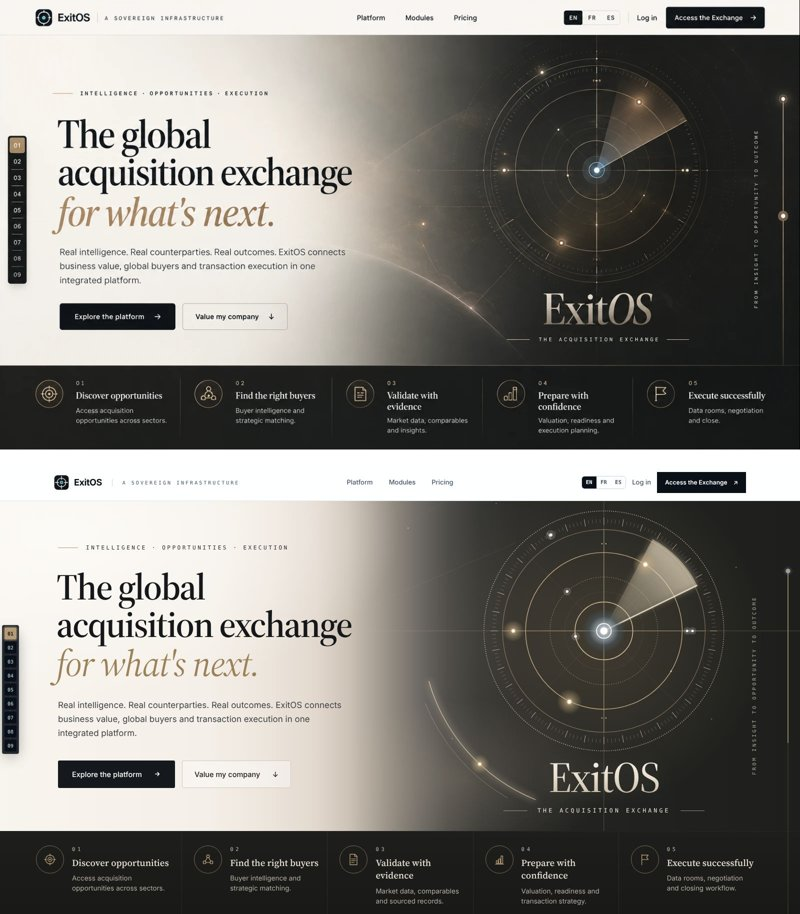
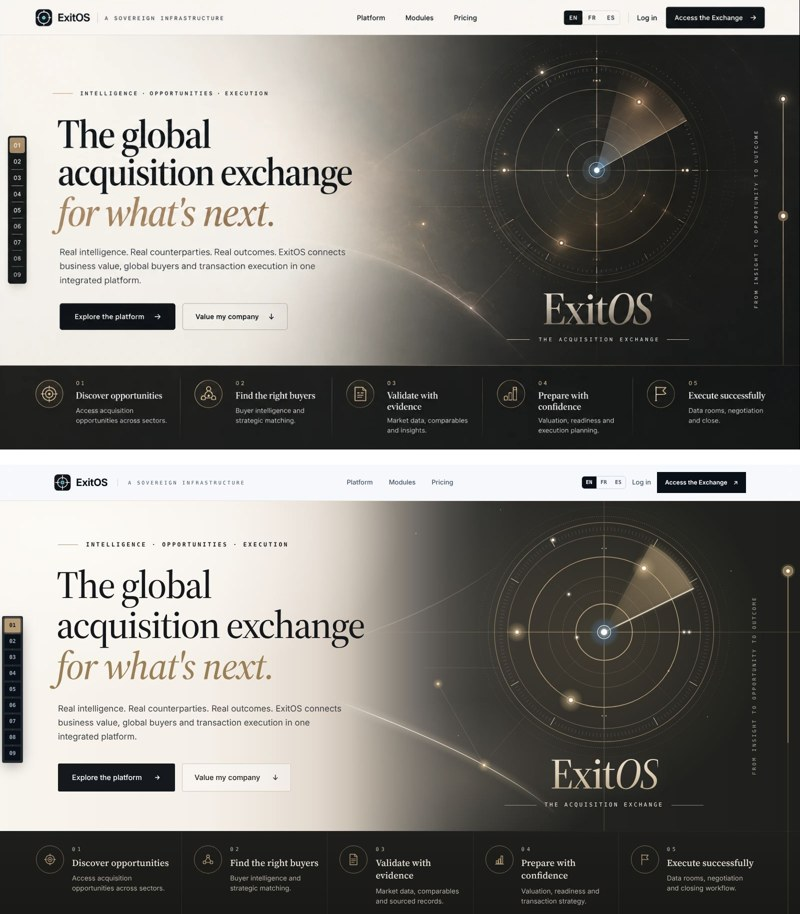
Hero: zoomed benchmark pass — dial rings, ticks, core, orbs, wordmark, type and chapter marks (HX2 detail)
Measured at 2.5x against the benchmark: two faint dotted outer rings outside a
bright ring with the graduations inside it and long bright marks every 30°;
rings at 205/160/118/88/60; ringed bronze orbs and warm-glow points (no grey
discs); a crisp core; a warm bronze wedge; the dial 4% smaller. Wordmark with
italic OS and a tighter tagline; headline medium at 4.85vw, italic medium;
eyebrow semibold; chapter line with lit, ringed and current nodes; chapter
rail charcoal with larger numerals; header on warm porcelain.

Claude-Session: https://claude.ai/code/session_01VxxzepaXTwk9V2M77YMMLq

diff --git a/services/exit-web/src/components/HeroExchange.tsx b/services/exit-web/src/components/HeroExchange.tsx
@@ -21,11 +21,12 @@ const RING = "#C8B48F", BR = "#B49A75";
 const Orb: React.FC<{ at: [number, number]; s?: number }> = ({ at: [x, y], s = 1 }) => (
   <g>
     <circle cx={x} cy={y} r={26 * s} fill="url(#hx-orb)" />
+    <circle cx={x} cy={y} r={8.5 * s} stroke="#C9AE82" strokeOpacity=".8" strokeWidth={1.1 * s} />
     <circle cx={x} cy={y} r={4 * s} fill="#FFF8EC" />
   </g>
 );
 const Dot: React.FC<{ at: [number, number]; r?: number }> = ({ at: [x, y], r = 2.5 }) => (
-  <g><circle cx={x} cy={y} r={r * 3.5} fill="#FFFFFF" fillOpacity=".16" /><circle cx={x} cy={y} r={r * 1.2} fill="#F6F4F2" /></g>
+  <g><circle cx={x} cy={y} r={r * 3} fill="url(#hx-pt)" /><circle cx={x} cy={y} r={r} fill="#FBF8F2" /></g>
 );
 
 const Dial: React.FC = () => {
@@ -35,10 +36,11 @@ const Dial: React.FC = () => {
     <svg viewBox="0 0 500 500" className="h-full w-full overflow-visible" fill="none" aria-hidden>
       <defs>
         <radialGradient id="hx-orb"><stop offset="0" stopColor="#F8EAD0" stopOpacity="1" /><stop offset=".3" stopColor="#C9AE82" stopOpacity=".55" /><stop offset="1" stopColor={BR} stopOpacity="0" /></radialGradient>
-        <radialGradient id="hx-halo"><stop offset="0" stopColor="#6E8796" stopOpacity=".75" /><stop offset=".7" stopColor="#4C5F6D" stopOpacity=".45" /><stop offset="1" stopColor="#4C5F6D" stopOpacity="0" /></radialGradient>
+        <radialGradient id="hx-pt"><stop offset="0" stopColor="#F3E6CF" stopOpacity=".55" /><stop offset="1" stopColor="#F3E6CF" stopOpacity="0" /></radialGradient>
+        <radialGradient id="hx-halo"><stop offset="0" stopColor="#5C7383" stopOpacity=".8" /><stop offset=".75" stopColor="#47596A" stopOpacity=".55" /><stop offset="1" stopColor="#47596A" stopOpacity="0" /></radialGradient>
         <radialGradient id="hx-glow"><stop offset="0" stopColor="#FFFFFF" stopOpacity=".7" /><stop offset="1" stopColor="#FFFFFF" stopOpacity="0" /></radialGradient>
         <linearGradient id="hx-wedge" gradientUnits="userSpaceOnUse" x1={C} y1={C} x2={mx} y2={my}>
-          <stop offset="0" stopColor="#EADBBF" stopOpacity=".08" /><stop offset=".55" stopColor="#EADBBF" stopOpacity=".24" /><stop offset="1" stopColor="#EADBBF" stopOpacity=".5" />
+          <stop offset="0" stopColor="#C7A97C" stopOpacity=".06" /><stop offset=".55" stopColor="#C7A97C" stopOpacity=".2" /><stop offset="1" stopColor="#D2B68A" stopOpacity=".32" />
         </linearGradient>
         <filter id="hx-bloom" x="-50%" y="-50%" width="200%" height="200%"><feGaussianBlur stdDeviation="7" /></filter>
         <filter id="hx-soft" x="-20%" y="-20%" width="140%" height="140%"><feGaussianBlur stdDeviation="1.2" result="b" /><feMerge><feMergeNode in="b" /><feMergeNode in="SourceGraphic" /></feMerge></filter>
@@ -77,21 +79,23 @@ const Dial: React.FC = () => {
       </g>
 
       {/* bezel and graduated ring */}
-      <circle cx={C} cy={C} r="245" stroke="#E2D6BF" strokeOpacity=".8" strokeWidth="1.7" strokeDasharray="0.1 4.2" strokeLinecap="round" />
+      <circle cx={C} cy={C} r="266" stroke="#E2D6BF" strokeOpacity=".28" strokeWidth="1.1" strokeDasharray="0.1 6" strokeLinecap="round" />
+      <circle cx={C} cy={C} r="246" stroke="#E2D6BF" strokeOpacity=".5" strokeWidth="1.2" strokeDasharray="0.1 4.4" strokeLinecap="round" />
+      <circle cx={C} cy={C} r="233" stroke={RING} strokeOpacity=".62" strokeWidth="1.1" />
       <g stroke="#D9CCB4" strokeLinecap="round">
         {Array.from({ length: 180 }, (_, i) => i * 2).map((d) => {
-          const major = d % 10 === 0;
-          const [x1, y1] = P(d, major ? 217 : 221), [x2, y2] = P(d, major ? 231 : 228);
-          return <line key={d} x1={x1} y1={y1} x2={x2} y2={y2} strokeOpacity={major ? 0.7 : 0.36} strokeWidth={major ? 1.1 : 0.8} />;
+          const major = d % 30 === 0 && d % 90 !== 0;
+          const [x1, y1] = P(d, major ? 210 : 216), [x2, y2] = P(d, major ? 228 : 223);
+          return <line key={d} x1={x1} y1={y1} x2={x2} y2={y2} strokeOpacity={major ? 0.85 : 0.3} strokeWidth={major ? 1.3 : 0.7} />;
         })}
       </g>
 
       {/* market rings */}
-      <circle cx={C} cy={C} r="207" stroke={RING} strokeOpacity=".55" strokeWidth="1.1" />
+      <circle cx={C} cy={C} r="205" stroke={RING} strokeOpacity=".5" strokeWidth="1" />
       <circle cx={C} cy={C} r="160" stroke="#C9B08A" strokeOpacity=".95" strokeWidth="1.4" />
-      <circle cx={C} cy={C} r="110" stroke={RING} strokeOpacity=".7" strokeWidth="1.5" strokeDasharray="0.1 4.5" strokeLinecap="round" />
-      <circle cx={C} cy={C} r="80" stroke={RING} strokeOpacity=".4" strokeWidth="1.2" strokeDasharray="0.1 5" strokeLinecap="round" />
-      <circle cx={C} cy={C} r="59" stroke="#D2BA92" strokeOpacity="1" strokeWidth="1.6" />
+      <circle cx={C} cy={C} r="118" stroke={RING} strokeOpacity=".32" strokeWidth=".9" />
+      <circle cx={C} cy={C} r="88" stroke={RING} strokeOpacity=".6" strokeWidth="1.3" strokeDasharray="0.1 4.4" strokeLinecap="round" />
+      <circle cx={C} cy={C} r="60" stroke="#D2BA92" strokeOpacity=".95" strokeWidth="1.5" />
 
       {/* the aperture: a lit wedge, its leading edge bright */}
       <path d={`M${C} ${C} L${w1x} ${w1y} A212 212 0 0 1 ${w2x} ${w2y} Z`} fill="url(#hx-wedge)" filter="url(#hx-bloom)" />
@@ -113,10 +117,10 @@ const Dial: React.FC = () => {
       <circle cx={P(121, 160)[0]} cy={P(121, 160)[1]} r="2" fill="#E8D7B8" fillOpacity=".6" />
 
       {/* the transaction node: ice-white in a blue-grey halo */}
-      <circle cx={C} cy={C} r="44" fill="url(#hx-halo)" />
-      <circle cx={C} cy={C} r="30" fill="url(#hx-glow)" />
-      <circle cx={C} cy={C} r="15" stroke="#E4EFF7" strokeWidth="2.2" />
-      <circle cx={C} cy={C} r="7.5" fill="#FFFFFF" />
+      <circle cx={C} cy={C} r="32" fill="url(#hx-halo)" />
+      <circle cx={C} cy={C} r="13" fill="url(#hx-glow)" />
+      <circle cx={C} cy={C} r="14" stroke="#DCEAF3" strokeOpacity=".95" strokeWidth="1.4" />
+      <circle cx={C} cy={C} r="6.5" fill="#FFFFFF" />
     </svg>
   );
 };
@@ -150,12 +154,12 @@ const HeroExchange: React.FC = () => {
         {/* the editorial page */}
         <div className="relative z-10 flex items-center">
           <div className="w-full px-5 py-12 sm:px-8 sm:py-20 lg:py-14 lg:pl-[max(4.5rem,calc((100vw-1480px)/2+3.5rem))] lg:pr-[clamp(1.5rem,3vw,3.5rem)]">
-            <p className="flex items-center gap-4 font-mono text-[10.5px] font-medium uppercase tracking-[0.24em] text-[#2B2B2A] sm:text-[11px] xl:tracking-[0.32em]">
+            <p className="flex items-center gap-4 font-mono text-[10.5px] font-semibold uppercase tracking-[0.22em] text-[#1F1F1E] sm:text-[11.5px] xl:tracking-[0.28em]">
               <span aria-hidden className="h-px w-10 bg-ex-bronze" />{t("hx.eyebrow")}
             </p>
-            <h1 id="hx-h" className="mt-8 max-w-[9.4em] font-editorial text-[clamp(2.7rem,4.6vw,5.25rem)] font-semibold leading-[1.02] tracking-[-0.032em] text-[#15171A] [font-feature-settings:'kern','liga','calt'] [font-kerning:normal] [text-wrap:balance] lg:-ml-[0.04em]">
+            <h1 id="hx-h" className="mt-8 max-w-[9.4em] font-editorial text-[clamp(2.7rem,4.85vw,5.5rem)] font-medium leading-[1.02] tracking-[-0.032em] text-[#15171A] [font-feature-settings:'kern','liga','calt'] [font-kerning:normal] [text-wrap:balance] lg:-ml-[0.04em]">
               {t("hx.h1")}{" "}
-              <em className="mt-[0.04em] block font-normal italic tracking-[-0.025em] text-[#9C8058]">{t("hx.h1em")}</em>
+              <em className="mt-[0.04em] block font-medium italic tracking-[-0.025em] text-[#9A7E56]">{t("hx.h1em")}</em>
             </h1>
             <p className="mt-8 max-w-[36rem] text-[16px] leading-[1.65] text-[#3D3F41] sm:text-[17px]">{t("hx.body")}</p>
             <div className="mt-10 flex flex-wrap items-center gap-3.5">
@@ -173,13 +177,13 @@ const HeroExchange: React.FC = () => {
         {/* the signature: the insignia's instrument and the wordmark */}
         <div aria-hidden className="hx-sig relative flex flex-col items-center justify-center pb-12 pt-20 sm:pb-16 lg:pb-[3.5%] lg:pt-[1.5%]">
           <div className="hx-mark relative flex flex-col items-center">
-            <div className="h-[min(78vw,330px)] w-[min(78vw,330px)] sm:h-[420px] sm:w-[420px] lg:h-[min(30.6vw,560px)] lg:w-[min(30.6vw,560px)]"><Dial /></div>
+            <div className="h-[min(78vw,330px)] w-[min(78vw,330px)] sm:h-[420px] sm:w-[420px] lg:h-[min(29.4vw,540px)] lg:w-[min(29.4vw,540px)]"><Dial /></div>
             <div className="mt-[0.05em] font-editorial font-medium leading-none tracking-[-0.025em] text-transparent"
               style={{ fontSize: "clamp(3rem, 5.4vw, 6rem)", backgroundImage: "linear-gradient(180deg, #F2E9DA 0%, #DCCDB3 50%, #B39E7E 100%)", WebkitBackgroundClip: "text", backgroundClip: "text", filter: "drop-shadow(0 0 22px rgba(232,220,200,0.14))" }}>
-              ExitOS
+              Exit<span className="italic">OS</span>
             </div>
-            <div className="mt-4 flex items-center gap-5 font-mono text-[10px] uppercase tracking-[0.36em] text-[#ECE5D8] sm:text-[11.5px]">
-              <span className="h-px w-10 bg-[#E3DCCF]/55 sm:w-12" />The acquisition exchange<span className="h-px w-10 bg-[#E3DCCF]/55 sm:w-12" />
+            <div className="mt-3 flex items-center gap-4 font-mono text-[10px] uppercase tracking-[0.3em] text-[#ECE5D8] sm:text-[11px]">
+              <span className="h-px w-12 bg-[#E3DCCF]/55 sm:w-16" />The acquisition exchange<span className="h-px w-12 bg-[#E3DCCF]/55 sm:w-16" />
             </div>
           </div>
 

diff --git a/services/exit-web/src/components/ChapterRail.tsx b/services/exit-web/src/components/ChapterRail.tsx
@@ -36,7 +36,7 @@ const ChapterRail: React.FC = () => {
         <div className="h-full origin-left bg-ex-bronze" style={{ transform: `scaleX(${progress})` }} />
       </div>
       <nav aria-label="Chapters" className="fixed left-1 top-1/2 z-30 hidden -translate-y-1/2 lg:block">
-        <div className="relative rounded-ex-sm border border-white/15 bg-ink-900/90 p-1 shadow-[0_10px_30px_-8px_rgba(0,0,0,0.55)] backdrop-blur">
+        <div className="relative rounded-ex-sm border border-white/15 bg-[#1C1D1B]/95 p-1 shadow-[0_10px_30px_-8px_rgba(0,0,0,0.55)] backdrop-blur">
           {/* the line the chapters hang on, filled as you read */}
           <span aria-hidden className="absolute bottom-3 left-1/2 top-3 w-px -translate-x-1/2 bg-white/15" />
           <span aria-hidden className="absolute left-1/2 top-3 w-px -translate-x-1/2 bg-ex-bronze/70" style={{ height: `calc((100% - 1.5rem) * ${progress})` }} />
@@ -44,8 +44,8 @@ const ChapterRail: React.FC = () => {
             {CHAPTERS.map(([n, key]) => (
               <li key={n} className="group relative">
                 <a href={`#ch-${n}`} aria-current={active === n ? "true" : undefined} aria-label={`${n} · ${t(key)}`}
-                  className={`grid h-6 w-6 place-items-center rounded-ex-xs font-mono text-[10px] font-semibold tabular-nums transition-colors focus-visible:outline-none focus-visible:ring-2 focus-visible:ring-blue-300 ${active === n ? "bg-ex-bronze text-[#15171A] shadow-[0_0_0_3px_rgba(180,154,117,0.3)]" : "bg-ink-900 text-blue-100/70 hover:text-white"}`}>{n}</a>
-                <span aria-hidden className={`pointer-events-none absolute left-full top-1/2 ml-3 -translate-y-1/2 whitespace-nowrap rounded-ex-xs bg-ink-900 px-2.5 py-1 font-mono text-[10px] uppercase tracking-[0.14em] text-white shadow-lg transition-opacity ${"opacity-0 group-hover:opacity-100 group-focus-within:opacity-100"}`}>{t(key)}</span>
+                  className={`grid h-7 w-8 place-items-center rounded-ex-xs font-mono text-[11px] font-semibold tabular-nums transition-colors focus-visible:outline-none focus-visible:ring-2 focus-visible:ring-blue-300 ${active === n ? "bg-ex-bronze text-[#15171A] shadow-[0_0_0_3px_rgba(180,154,117,0.3)]" : "bg-[#1C1D1B] text-[#E8E0D2]/75 hover:text-white"}`}>{n}</a>
+                <span aria-hidden className={`pointer-events-none absolute left-full top-1/2 ml-3 -translate-y-1/2 whitespace-nowrap rounded-ex-xs bg-[#1C1D1B] px-2.5 py-1 font-mono text-[10px] uppercase tracking-[0.14em] text-white shadow-lg transition-opacity ${"opacity-0 group-hover:opacity-100 group-focus-within:opacity-100"}`}>{t(key)}</span>
               </li>
             ))}
           </ol>

diff --git a/services/exit-web/src/components/SignatureLine.tsx b/services/exit-web/src/components/SignatureLine.tsx
@@ -39,10 +39,15 @@ const SignatureLine: React.FC = () => {
           <line x1="24" y1={nodes[0] ?? 0} x2="24" y2={Math.max(nodes[0] ?? 0, Math.min(y, nodes[nodes.length - 1] ?? height))} stroke="#B49A75" strokeWidth="1.5" />
           {nodes.map((ny, i) => {
             const on = y >= ny;
+            const here = on && (i === nodes.length - 1 || y < nodes[i + 1]);
+            // passed: a lit point in a bronze ring; the current chapter: a larger bronze disc; ahead: a hollow point
             return (
               <g key={i}>
-                {on && <circle cx="24" cy={ny} r="9" fill="rgba(59,130,246,0.18)" />}
-                <circle cx="24" cy={ny} r="4" fill={on ? "#B49A75" : "#F8F4EE"} stroke="#B49A75" strokeWidth="1.5" />
+                {on && <circle cx="24" cy={ny} r={here ? 14 : 11} fill="rgba(180,154,117,0.22)" />}
+                {here ? <circle cx="24" cy={ny} r="10" fill="#8C7656" stroke="#B49A75" strokeWidth="1.2" />
+                  : on ? <circle cx="24" cy={ny} r="6.5" fill="#2E2A24" stroke="#B49A75" strokeWidth="1.2" />
+                  : <circle cx="24" cy={ny} r="4" fill="#F8F4EE" stroke="#B49A75" strokeWidth="1.5" />}
+                {on && <circle cx="24" cy={ny} r="3.6" fill="#FFF8EC" />}
               </g>
             );
           })}

diff --git a/services/exit-web/src/components/MarketingChrome.tsx b/services/exit-web/src/components/MarketingChrome.tsx
@@ -177,7 +177,7 @@ export const MarketingChrome: React.FC<{ active?: string; children: React.ReactN
   const WRAP = "mx-auto w-full max-w-[1480px] px-5 sm:px-8 lg:px-12";
   return (
     <div className="min-h-screen bg-[#f6f8fb] text-ink-900">
-      <header className={`sticky top-0 z-40 border-b backdrop-blur transition-colors duration-200 motion-reduce:transition-none ${ink ? "border-white/10 bg-ex-1/85 text-white" : "border-slate-200 bg-white/90"}`}>
+      <header className={`sticky top-0 z-40 border-b backdrop-blur transition-colors duration-200 motion-reduce:transition-none ${ink ? "border-white/10 bg-ex-1/85 text-white" : "border-[#E7E1D7] bg-[#F7F4EF]/92"}`}>
         <div className={`${WRAP} grid min-h-[72px] grid-cols-[1fr_auto] items-center gap-5 lg:grid-cols-[1fr_auto_1fr]`}>
           <div className="flex items-center gap-5">
             <button onClick={() => nav("/")} aria-label="ExitOS — home"><ExchangeLockup size={34} dark={ink} /></button>

diff --git a/services/exit-web/src/index.css b/services/exit-web/src/index.css
@@ -1,4 +1,4 @@
-@import url("https://fonts.googleapis.com/css2?family=Inter:wght@400;500;600;700;800&family=Sora:wght@500;600;700;800&family=Source+Serif+4:ital,opsz,wght@0,8..60,400;0,8..60,500;0,8..60,600;0,8..60,700;1,8..60,400&display=swap");
+@import url("https://fonts.googleapis.com/css2?family=Inter:wght@400;500;600;700;800&family=Sora:wght@500;600;700;800&family=Source+Serif+4:ital,opsz,wght@0,8..60,400;0,8..60,500;0,8..60,600;0,8..60,700;1,8..60,400;1,8..60,500&display=swap");
 
 @tailwind base;
 @tailwind components;
